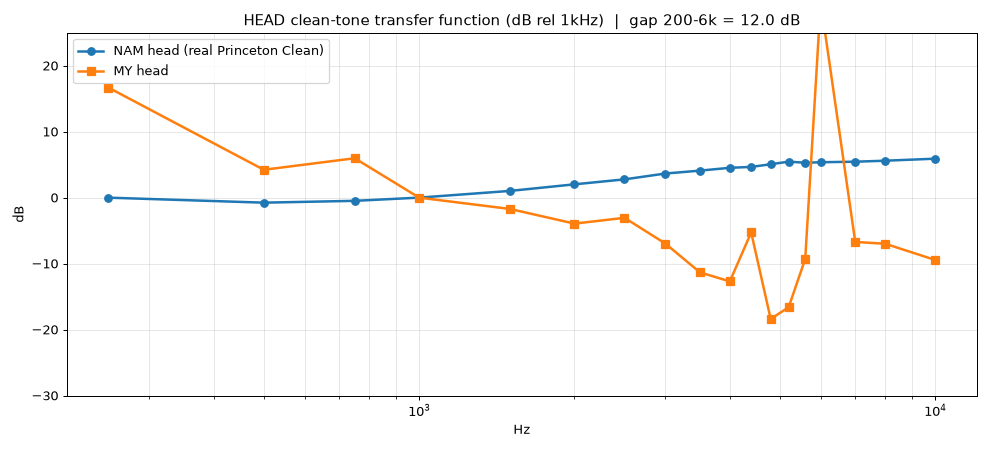
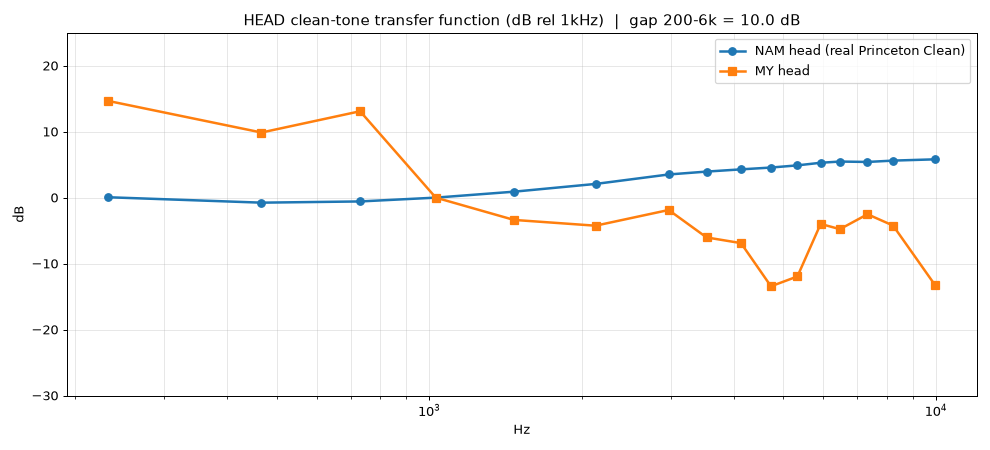
Probe: non-fs/N frequencies (kill measurement aliasing); locate rate-dependent resonances
The 6kHz +25dB 'spike' was a measurement artifact at fs/8 -- gone with
non-fs/N probe tones (gap 12 -> 8.7 dB). What remains is real but is
rate-dependent discretization ringing: the tone-stack shows a spurious peak
that sits at ~5.3kHz at 96k and moves at 48k (so it is Nyquist-region
bilinear/trapezoidal loss-free resonance, not a single component). v1a also
rolls off ~8dB@4kHz although its cathode is fully bypassed (should be flat) --
another numerical artifact. Head is broadly too DARK vs the NAM's +5dB
presence, plus these resonances + low-freq junk. Shipped defaults untouched.

diff --git a/vst/analysis/gen_probe.py b/vst/analysis/gen_probe.py
@@ -2,7 +2,7 @@
 # directly -- low level so the stage is linear. Writes probe.wav + probe.json.
 import numpy as np, struct, json
 SR=48000
-freqs=[250,500,750,1000,1500,2000,2500,3000,3500,4000,4400,4800,5200,5600,6000,7000,8000,10000]
+freqs=[233,467,731,1031,1471,2131,2971,3529,4127,4729,5333,5927,6469,7333,8237,9973]  # non-fs/N to avoid measurement aliasing
 amp=0.03
 segs=[]; meta={}; cur=0
 def add(name,x):

diff --git a/vst/analysis/head_probe_cmp.py b/vst/analysis/head_probe_cmp.py
@@ -18,7 +18,7 @@ def curve(path):
             s=sig[a0+2000:a1-2000]; t=np.arange(len(s))/SR
             return np.abs(np.sum(s*np.exp(-2j*np.pi*f*t)))/len(s)*2
         gi=A(xi); go=A(yy); g.append(20*np.log10(go/gi) if gi>0 else -120)
-    g=np.array(g); return g-g[freqs.index(1000)]
+    g=np.array(g); k1=min(range(len(freqs)),key=lambda i:abs(freqs[i]-1000)); return g-g[k1]
 gn=curve(r"D:\sd1\vst\renders\nam_probe.wav")
 gm=curve(r"D:\sd1\vst\renders\head_probe.wav")
 band=[i for i,f in enumerate(freqs) if 200<=f<=6000]

diff --git a/vst/analysis/measure_probe.py b/vst/analysis/measure_probe.py
@@ -20,7 +20,7 @@ g=[]
 for f in freqs:
     a0,a1=meta[f"f{f}"]; gi=amp_at(xin,a0,a1,f); go=amp_at(y,a0,a1,f)
     g.append(20*np.log10(go/gi) if gi>0 else 0)
-k1=freqs.index(1000); ref=g[k1]
+k1=min(range(len(freqs)),key=lambda i:abs(freqs[i]-1000)); ref=g[k1]
 print(f"stage gain vs freq (dB rel 1kHz)  [{sys.argv[1].split(chr(92))[-1]}]:")
 for f,gg in zip(freqs,g):
     bar="#"*max(0,int((gg-ref)/2)+1) if gg-ref>-2 else ""